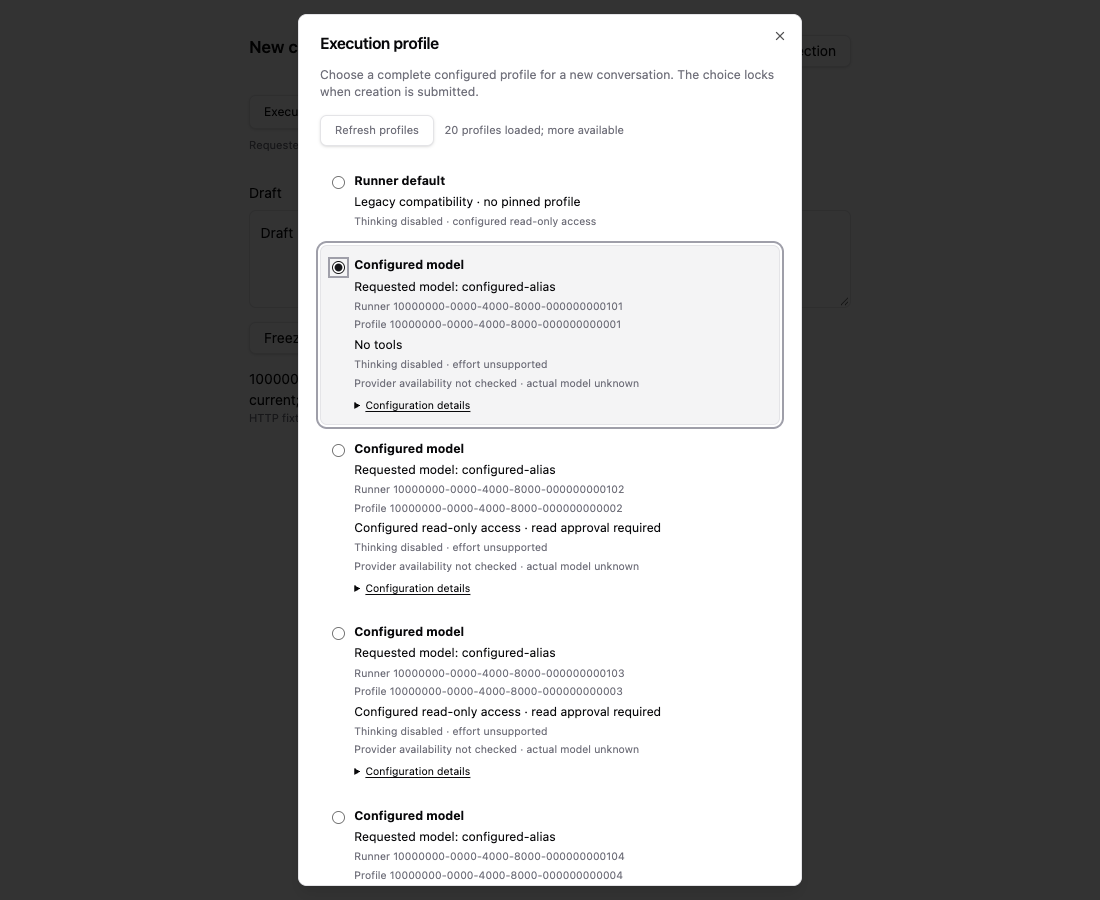
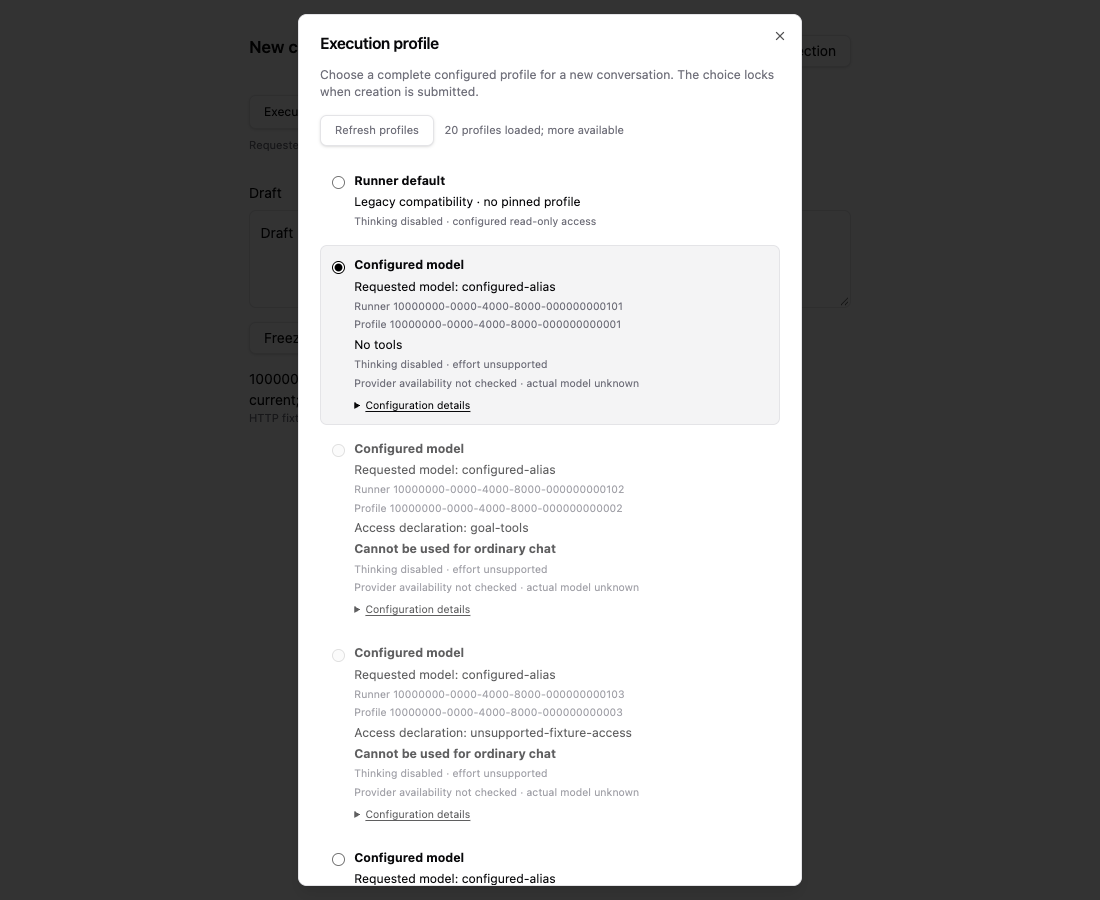
docs(web): record mixed profile directory validation and review target

Changed region(s): [[0.3091, 0.4667, 0.5873, 0.9956], [0.4945, 0.8711, 0.5564, 0.9022], [0.2782, 0.28, 0.3091, 0.3111]]

diff --git a/docs/evidence/wpf-profile01/interface.md b/docs/evidence/wpf-profile01/interface.md
@@ -1,18 +1,36 @@
-# WPF-PROFILE01 模块 Interface（实现前冻结）
+# PROFILE01 Interface — 目录声明与普通聊天选择
 
-输入：固定公共合同 / client 4e0289f29ffa48c6c49003837d4520f57c22b6b0。接入 owner 已确认此拆分；App 接入另行领取。
+固定模块 target `4f1985769564eafad9218570411d5ce1114b4ec0`；源码基线 `4e0289f29ffa48c6c49003837d4520f57c22b6b0`；后继输入只读核 `02683be019ae75591b21c1ada64e01669678f068:packages/contracts/src/execution-profiles.ts`。未修改/合并共享合同。实际 App 接入另行领取。
 
-- `src/execution-profiles/catalog.ts`：`createExecutionProfileCatalog(port: Pick<FlowClient, "executionProfiles">)` 返回 `getSnapshot/subscribe/refresh/loadMore/dispose`。snapshot 为不可变 `profiles/nextCursor/loading/error/loaded/stale/canLoadMore`。每 connection 创建一个实例并在断开/换中心时 dispose。refresh abort 旧请求并原子替换目录；在途/失败保留旧页并标陈旧。loadMore 失败保留旧页/游标可重试。401 同样保留只读旧声明并标陈旧，不能选择新 profile。迟到结果不复活。方法处理错误到 snapshot，不产生 unhandled rejection。
-- `selection.ts`：`ProfileSelection` 为显式 `legacy-default` 或 `configured`（完整 profile）；`configuredSelection`、`legacyDefaultSelection`、`freezeConversationCreation(title, selection)`；后者 schema 校验并深冻完整 `ConversationCreation`，包含 ref 及 requested。无 HTTP/key。`assertCreationReceiptMatches(expectedCreation, receivedSummary)` 核 title/harness/requested 和 pin 有无及所有字段，错误抛 Error。必须用 outbox 已冻结输入核 ACK，不从后来 catalog/selection 重建。
-- `ExecutionProfilePicker.tsx`：受控 `catalog` snapshot、`selection`、`onSelect`、`onRefresh`、`onLoadMore`，可选 `locked={creation:ConversationCreation,reason:'created'|'receipt-pending'}`。locked 优先显示冻结输入；即使未知 ACK 无 summary 也锁定。refresh 不自动改变 selection；不存在/陈旧选择明确提示，不静默替代。UI 不发送/创建/重试命令。
+## selection.ts
 
-控件选整份 runner-configured profile。默认旧兼容项是显式 unpinned runner-default / disabled / configured-readonly。configured requested 精确取 config.model、disabled、config.access。provider availability 始终 not-probed，模型 resolved/effective 未知；不从 runner/profile 声明推在线。配置在 CREATE 时 pin，非首 turn；无 effort/thinking 热切换。需要消除 catalog 陈旧与 create 竞争由中心 admission 再验证完整 ref，UI 不保证准入。
+- `DirectoryProfile`：目录声明，configuration.access为标识字符串；不是可提交Selection。
+- `readDirectoryProfile(input:unknown)`：clone、严格验证公共ref、除access外全部known configuration字段、model/source/availability/controls/limits/时间后深冻。goal-tools额外验证requireReadApproval=false且materialScopeDigest为SHA256空数组。未知access只保留声明、不猜语义。
+- `isChatAccess(access)`：显式仅允许none/configured-readonly。它不依赖公共publication schema未来保持狭窄。
+- `ChatProfile`：上述allowlist的缩窄DTO；`ProfileSelection`为legacy-default或configured+ChatProfile。
+- `configuredSelection(profile:DirectoryProfile)`：重新验证并执行chat allowlist，失败抛Error。消费方不能直接把目录项强转为选择。
+- `legacyDefaultSelection()`：显式旧兼容，无pin，runner-default/disabled/configured-readonly。不是服务在线证明。
+- `freezeConversationCreation(title,selection)`：schema校验且深冻完整ConversationCreation（requested与ref）；configured选择再次执行allowlist，拒绝伪造对象。requested精确取config.model/disabled/config.access。无HTTP、key或发送。
+- `assertCreationReceiptMatches(expectedCreation,receivedSummary)`：核title/harness/requested与pin有无及完整id/runnerId/digest；错误抛Error。必须对照outbox固定payload，不从后来的选择重建。
 
-新模块直接按上述文件导入，不新增 barrel。既有 App/outbox 持有 lifecycle/key/draft；未来接线必须保持新草稿不被旧 ACK 覆盖及 center epoch 隔离。
+## catalog.ts
 
+`createExecutionProfileCatalog(port:Pick<FlowClient,"executionProfiles">)` → getSnapshot/subscribe/refresh/loadMore/dispose。每connection一个实例，切中心/断开dispose。snapshot为不可变 profiles（DirectoryProfile[]）/nextCursor/loading/error/loaded/stale/canLoadMore。
 
-消费接缝确认（2026-10-06 04:41 UTC）：Picker 无 mount 请求，初次 catalog.refresh 由调用者明确执行；locked 无目录依赖。刷新成功只加载第一页，选择项不在 loaded profiles 只表示“尚未在已加载页确认”，不能推全目录删除。消费端新 configured CREATE 应同步核 loaded、非 stale、所选 ref 在当前已读页完整确认；旧 default 不冒充在线。未知 CREATE ACK 的相同 key/body retry 绕开目录门禁；已知 CREATE 成功后即使首 turn 失败仍锁 created。若现 outbox 再次 schema.parse，解析会产生新对象，必须由接入 owner 再深冻 executionProfile/requested；本 helper 不保证跨后续 parse 的对象仍冻结。
+首次请求仅显式refresh触发；Picker无mount请求。refresh取消旧request并generation屏蔽迟到，成功原子替换第一页；在途/失败保留旧页并标陈旧。loadMore失败保留页面/游标可原页重试。401也保留只读旧声明并标陈旧；无新配置选择。refresh失败canLoadMore=false，须先重试refresh；append失败canLoadMore=true可重试；dispose清缓存/订阅且不复活。
 
-`canLoadMore` 表示当前可执行分页请求：refresh在途/失败后为false（需重试refresh），append失败保留cursor且true可原页重试，防止看似可点但无操作的分页按钮。
+混合页保留goal-tools和未知access条目及服务端cursor，不因不可选而筛掉它们；已知goal-tools策略无效或其他DTO/排序/cursor畸形仍原子拒绝整页，保留旧已确认数据（若有）。刷新只加载第一页，所选项不在loaded页只能称“尚未在已加载页确认”，不能推全目录删除。
 
-当前消费者只接受固定4e合同的 `none` / `configured-readonly` access。未知或不支持的 access 由共享schema拒绝，绝不激活；当前catalog按整页原子验证，包含未知access的页会整体错误并保留上一份已确认数据（若有），不会静默过滤出可用部分。后继 goal/tools 类profile的正式区分字段尚未冻结；此模块不预制字段、不将其当普通chat可选项。未来正式合同的过滤/分类消费须另行受控实现。
+## ExecutionProfilePicker.tsx
+
+受控props：catalog snapshot、selection、onSelect、onRefresh、onLoadMore，可选 `locked={creation:ConversationCreation,reason:'created'|'receipt-pending'}`。选择刷新不自动改变；Dialog/Button+原生radio与显式Load more，无全球model搜索假象。goal-tools/未知项显示原access声明及Cannot be used for ordinary chat，radio禁选；合法同页仍可选。配置不是effective或online证明。
+
+locked完全读取冻结creation；未知ACK没有summary也必须锁定，不依赖目录可用。CREATE即pin，而非首turn之后；任何已知CREATE成功后的首turn失败仍锁created。无effort/thinking热切换。
+
+## App消费责任（独立后续claim）
+
+新configured CREATE前同步核loaded&&!stale、完整ref已在当前页确认，然后调用configuredSelection；unknown CREATE ACK的同key/body重试绕过目录门禁，始终原pin/requested。旧无pin会话保持无pin。catalog refresh不会自动改选择。
+
+outbox再schema.parse会clone成新对象，接入owner必须重新深冻ref/requested，不以本helper输出曾冻结推parse后仍冻结。ACK在bind/首turn前核完整pin；不匹配保留unknown。App继续拥有key/retry/draft/connection lifetime，不向模块泄漏token或扩大到模型调用。原有新草稿不得被迟到ACK覆盖。
+
+旧a28/4e批准仅是历史；后继混合目录取代原“未知access整页错误”策略，target4f待新的独审。未知未来profile目的仅能只读，不自动激活。

diff --git a/docs/evidence/wpf-profile01/README.md b/docs/evidence/wpf-profile01/README.md
@@ -1,22 +1,24 @@
 # PROFILE01 模块交付证据
 
-固定target `a28c78cc3a1ac8557f7fd95afa074c4971128246`（生产实现仍为 `b2b2844414172cedf8cdc663e97a0b46c6905202`，a28仅增1消费者测试），base `4e0289f29ffa48c6c49003837d4520f57c22b6b0`。本模块只负责目录、选择和冻结创建配置；现 App 尚未消费。独立review见 [review](../../../plans/wpf-profile01-execution-profiles/review.md)。
+当前固定target `4f1985769564eafad9218570411d5ce1114b4ec0`，源码base `4e0289f29ffa48c6c49003837d4520f57c22b6b0`；只读后继合同 `02683be019ae75591b21c1ada64e01669678f068`。旧a28的限定approval保留历史，新适配独审见[review](../../../plans/wpf-profile01-execution-profiles/review.md)。实际App尚未消费。
 
 | 检查 | 作者实际结果 |
 | --- | --- |
-| `PATH=/opt/homebrew/opt/node@24/bin:$PATH pnpm exec vitest run apps/web/test/execution-profiles.test.ts` | 14/14 PASS；1文件；2026-10-06 04:45 UTC；target a28 |
-| `pnpm --filter @flow/web typecheck`（同Node24 PATH） | b2 exit0；a28生产diff0，未为新增纯测试重复 |
-| `pnpm exec tsx apps/web/test/execution-profiles.browser.ts`（同PATH） | b2：5行为组 PASS / pageErrors=[]；Chrome154；[原始JSON](browser-results.json) |
-| 隔离fixture production bundle | Vite8 build lib entry=`apps/web/test/execution-profiles.fixture.tsx`，React/Tailwind现有插件，输出 `/tmp/flow-profile01-isolated-build`；PASS。仅证明模块生产编译，不声称生产App接入或完整prod browser |
-| 范围与锁 | `git diff --check` PASS；根package.json/pnpm-lock.yaml diff0；仅7新实现文件 |
+| `PATH=/opt/homebrew/opt/node@24/bin:$PATH pnpm exec vitest run apps/web/test/execution-profiles.test.ts` | target4f，16/16 PASS；1文件；2026-10-06 04:50 UTC |
+| `pnpm --filter @flow/web typecheck`（同PATH） | target4f exit0 |
+| `pnpm exec tsx apps/web/test/execution-profiles.browser.ts`（同PATH） | target4f，5行为组 PASS/pageErrors=[]；Chrome154；[原始JSON](browser-results.json) |
+| 范围/锁 | diffcheck0；根manifest/lock与共享文件无变；五文件后继差异均已领取 |
+| 历史隔离fixture production bundle | b2时Vite8 lib entry=test/execution-profiles.fixture.tsx输出/tmp/flow-profile01-isolated-build通过；不是4f重跑/不是App集成；后继按影响执行type/unit/browser未重跑无关build |
 
-14项包括实际 FlowClient HTTP分页、同模型不同runner、保留旧页错误/401恢复、append失败重试、refresh竞争/中止、dispose迟到隔离、畸形页原子拒绝（3case）、完整冻结、legacy兼容、ACK pin有无/完整字段、首次显式请求与取消订阅、未知access整页拒绝及合法access不变。UI验证20+1真实分页/503原页重试、native键盘选择、Escape焦点返回、未发送草稿保留、401陈旧门禁、dark390/reduced-motion、未知ACK无summary锁、换中心新目录和created锁。
+16项覆盖真实FlowClient HTTP分页/同model不同runner、保留页错误/401恢复、append失败重试、refresh中止竞争、dispose迟到隔离、畸形页原子拒绝（3case）、完整冻结、legacy兼容、ACK完整pin、显式首次请求和取消订阅、混合合法+goal-tools+unknown页仍可分页/合法选择、直接configured及freeze入口拒绝非chat、已知goal-tools两种策略无效整页失败。
 
-- [浅色选择器](profiles-light.png)
-- [深色390选择器](profiles-dark-390.png)
+5个HTTP浏览器组验证20+1混合目录、goal-tools/unknown显示原因并禁选、键盘跳过禁选、503原页重试、401旧页与选择保留/恢复、Escape焦点返回/未发送草稿保留、深色390/reduced-motion、未知ACK无summary锁、换中心/created锁。0模型/0数据库。
+
+- [浅色混合目录](profiles-light.png)
+- [深色390混合目录](profiles-dark-390.png)
 - [深色390未知回执锁](profiles-pending-dark-390.png)
 
-截图均人工目视。首次fixture失败因自定义HTML没经 `transformIndexHtml` 导致React preamble缺失；随后textarea嵌套label定位不稳定，补明确aria-label。两项已修，最终完整5组重跑，不计早期失败为产品已通过。
+截图已人工目视。早期b2 fixture漏Vite HTML变换及textarea accessible name问题已修且后续完整重跑，未隐瞒初次失败。当前4f未遇新增检查失败。
 
 ## 本地查看
 
@@ -25,16 +27,10 @@ cd /Users/citrine/Projects/AgentHarness/Flow-worktrees/web-execution-profiles
 PATH=/opt/homebrew/opt/node@24/bin:$PATH pnpm exec tsx apps/web/test/execution-profiles.browser.ts --serve
 ```
 
-命令输出 `PROFILE01_HTTP_FIXTURE=http://127.0.0.1:<dynamic-port>`；交付时保留预览 `http://127.0.0.1:62662`。只提供合成 HTTP profile声明、0模型；所有冻结按钮均本地fixture控件，无POST会话。独立自动检查另用动态端口且finally关闭浏览器/服务，不占4320/49922或其他owner端口。
+输出 `PROFILE01_HTTP_FIXTURE=http://127.0.0.1:<dynamic-port>`；当前保留 `http://127.0.0.1:64954`（混合目录fixture）。旧62662已核自己PID/cwd后清理，不碰别的服务。自动检查另开动态端口并finally清理。冻结按钮仅本地fixture，无会话POST或模型；未改4320/49922。
 
-## 接入与限制
+## 接入与未验证
 
-[完整Interface](interface.md)。调用者负责首次refresh、connection lifetime/dispose、创建时采用当前已确认的profile，以及outbox key、unknown重试原输入、ACK核对后绑定、草稿安全。当前unpicked/legacy显式兼容不表示服务在线。目录仅按页读取，缺失于loaded页不是全目录删除；旧选项绝不自动替代。中心准入再次检查ref是否可用。
+[Interface](interface.md)。DirectoryProfile只是声明，只有allowlist产生ChatProfile；未知access不推目的或可用。已知goal-tools无审批/空材料策略继续严格。中心准入再核ref，UI不保证在线。
 
-未知项：真实中心/provider/runner可达、实际模型名与工具、App组合、Safari/Firefox/屏读；queue/steer/effort切换不在此合同。被冻结输入经过其他模块schema.parse可能重新变可变，消费端必须重新冻结ref/requested；这属于接入检查，不以本模块的冻对象推整个App已安全。
-
-后继a28仅增加未知access消费者测试；浏览器/生产bundle为b2生产实现检查，未冒充新目标再次重跑。生产文件四项零diff，隔离fixture/browser脚本也未改变。
-
-## 独立结论
-
-root于2026-10-06 04:48:10 UTC正式APPROVED模块target a28，独立14tests/source/CUA通过。作者与审查者实际检查、未验证项分别见[review](../../../plans/wpf-profile01-execution-profiles/review.md)。不把此批准写成App已经接通或main已集成。
+未验证实际App组合、真实center/runner/provider/模型、Safari/Firefox/屏读。queue/steer/effort切换不在此合同。App outbox再次parse后ref需重新冻结；unknown原key/body重试与草稿安全由接入owner在独立claim验证。旧a28批准不能自动覆盖新合同或后续App。

diff --git a/plans/wpf-profile01-execution-profiles/status.md b/plans/wpf-profile01-execution-profiles/status.md
@@ -2,32 +2,32 @@
 
 | 字段 | 记录 |
 | --- | --- |
-| 最近更新 / 最近main同步核验 | 2026-10-06 04:49 UTC；固定输入，不追 moving main |
+| 最近更新 / 最近main同步核验 | 2026-10-06 04:52 UTC；固定输入，不追 moving main |
 | Plan | [plan.md](plan.md) |
 | 单一status owner / model | w01_owner / gpt-6-astra ultra（派发指定） |
 | Worktree | /Users/citrine/Projects/AgentHarness/Flow-worktrees/web-execution-profiles |
 | Branch | codex/web-execution-profiles |
-| 工作基线 / HEAD | 基线 4e0289f29ffa48c6c49003837d4520f57c22b6b0；实现 a28c78cc3a1ac8557f7fd95afa074c4971128246，随后仅metadata |
+| 工作基线 / HEAD | 基线 4e0289f29ffa48c6c49003837d4520f57c22b6b0；实现 4f1985769564eafad9218570411d5ce1114b4ec0，随后仅metadata |
 | 工作树dirty状态 | 实现已提交；本次仅计划/证据收尾，提交后核clean |
 | 工作分支状态 | implemented |
-| 检查状态 | PASSED：a28c78cc3a1ac8557f7fd95afa074c4971128246；14局部 tests；b2生产不变，复用其Web typecheck、5组HTTP browser、隔离fixture production bundle；见证据 |
+| 检查状态 | PASSED：4f1985769564eafad9218570411d5ce1114b4ec0；16局部tests、Web typecheck、5组混合目录HTTP browser；隔离production bundle仅历史b2 |
 | 已集成main状态 / HEAD | 未集成新模块；4e 仅为公共接口输入 |
-| 实现目标 | a28c78cc3a1ac8557f7fd95afa074c4971128246 |
+| 实现目标 | 4f1985769564eafad9218570411d5ce1114b4ec0 |
 | 实现范围 | apps/web/src/execution-profiles/ExecutionProfilePicker.tsx, apps/web/src/execution-profiles/catalog.ts, apps/web/src/execution-profiles/execution-profiles.css, apps/web/src/execution-profiles/selection.ts, apps/web/test/execution-profiles.browser.ts, apps/web/test/execution-profiles.fixture.tsx, apps/web/test/execution-profiles.test.ts |
 | 阶段 | M2 |
 | 优先级 | 1 |
-| 当前产出 | 独立配置选择模块已获固定目标审查通过；可交下一App接入片消费 |
-| 下一可用交付 | 交App owner另领配置接线；模块当前停止实现写入并保留review修复claim |
+| 当前产出 | 固定02683混合目录适配已验证；禁选goal-tools/未知配置，合法项保留 |
+| 下一可用交付 | 新target4f独立复审；App消费另领 |
 | 当前阻塞 | NONE |
 | 需用户决定 | NONE |
-| Review | [review.md](review.md)，APPROVED a28c78cc3a1ac8557f7fd95afa074c4971128246；仅独立模块 |
+| Review | [review.md](review.md)，NOT_STARTED 4f1985769564eafad9218570411d5ce1114b4ec0；历史a28/4e APPROVED保留 |
 
 | TODO ID | 状态 | Owner | 完成证据/检查 |
 | --- | --- | --- | --- |
-| WPF-PROFILE01-01 | completed | w01_owner | 14局部tests中真实HTTP分页/错误/连接隔离；固定a28 |
-| WPF-PROFILE01-02 | completed | w01_owner | 完整pin/深冻/旧default局部检查；固定a28 |
-| WPF-PROFILE01-03 | completed | w01_owner | 5组HTTP浏览器，双主题390/键盘/锁；截图已目视 |
-| WPF-PROFILE01-04 | completed | w01_owner | root独立APPROVED a28；14tests+CUA/源码；App另片 |
+| WPF-PROFILE01-01 | completed | w01_owner | 16局部tests：混合目录/分页/错误/连接隔离；固定4f |
+| WPF-PROFILE01-02 | completed | w01_owner | 完整pin/深冻/显式chat allowlist/旧default；固定4f |
+| WPF-PROFILE01-03 | completed | w01_owner | 5组混合目录HTTP浏览器，禁选/双主题390/键盘/锁；截图已目视 |
+| WPF-PROFILE01-04 | in-progress | w01_owner | 4f待复审；历史a28 approval不覆盖后继 |
 
 ## 领取与架构影响
 
@@ -40,7 +40,7 @@
 
 ## 本段检查与交付
 
-[验证报告](../../docs/evidence/wpf-profile01/README.md)；[浏览器原始结果](../../docs/evidence/wpf-profile01/browser-results.json)；[接口](../../docs/evidence/wpf-profile01/interface.md)；[技能与清码](../../docs/evidence/wpf-profile01/quality.md)。Node24 / pnpm9.15.4 / Chrome154。已启动独立HTTP fixture http://127.0.0.1:62662（开发预览，启动脚本每次动态端口）。测试自动端口已清理。0真实模型，未运行真实中心/runner、App组合、Safari/Firefox/屏读。
+[验证报告](../../docs/evidence/wpf-profile01/README.md)；[浏览器原始结果](../../docs/evidence/wpf-profile01/browser-results.json)；[接口](../../docs/evidence/wpf-profile01/interface.md)；[技能与清码](../../docs/evidence/wpf-profile01/quality.md)。Node24 / pnpm9.15.4 / Chrome154。已启动独立HTTP fixture http://127.0.0.1:64954（开发预览，启动脚本每次动态端口）。测试自动端口已清理。0真实模型，未运行真实中心/runner、App组合、Safari/Firefox/屏读。
 
 frozen-lockfile安装复用既有449依赖，不新增manifest条目；根manifest/lock diff0。client/contracts均链接本工作树packages。最初fixture漏Vite HTML变换及textarea可访问名称问题已修，最终5组全部通过；不是忽略失败。Review已独立绑定a28通过，不继承任何W01/P01历史approval。
 
@@ -48,3 +48,9 @@ frozen-lockfile安装复用既有449依赖，不新增manifest条目；根manife
 ## 独立审查交付
 
 root / GPT-6 只读审查，2026-10-06 04:48:10 UTC 正式 APPROVED，target a28c78cc3a1ac8557f7fd95afa074c4971128246 / base 4e0289f29ffa48c6c49003837d4520f57c22b6b0。独立14tests PASS（226ms）、7文件源码审读、固定diffcheck0、4生产文件b2→HEAD零差异、CUA展开/选择/焦点/草稿/未知ACK冻结通过。作者5browser/隔离编译由证据复核，root没有声称再次独立全跑。无未关闭blocking；未来goal-tools分类/实际App/真实中心与模型不在批准范围。当前未知access整页拒绝，不声称逐项降级。
+
+## 后继公共合同适配（2026-10-06 04:50 UTC）
+
+Lead固定02683be019ae75591b21c1ada64e01669678f068新增goal-tools access，管理/root授权在现9scope适配。旧target的整页拒绝策略被新产品要求替代：目录阅读与可提交选择分离，goal-tools/未知access只读禁选、合法项保留、其他畸形仍整页拒绝。源码基线4e不变，026只读作为已固定形状输入；共享文件不修改。新target4f已提交并作者16tests/typecheck/5browser通过，旧approval不覆盖当前实现。
+
+后继固定target4f的新增源与验证见报告；既有dashboard-snapshot是04:44旧b2采样，不能据此把新review解析当已正确。最终新review元数据后将单次核review.state/target/proof。

diff --git a/plans/wpf-profile01-execution-profiles/plan.md b/plans/wpf-profile01-execution-profiles/plan.md
@@ -3,7 +3,7 @@
 | 字段 | 内容 |
 | --- | --- |
 | 计划编号 | WPF-PROFILE01 |
-| 状态 | completed |
+| 状态 | in-progress |
 | 创建 / 更新 | 2026-10-06 04:49 UTC |
 | Owner / model | w01_owner / gpt-6-astra ultra（派发指定；运行上下文为 GPT-6） |
 | Worktree / branch | /Users/citrine/Projects/AgentHarness/Flow-worktrees/web-execution-profiles / codex/web-execution-profiles |
@@ -18,7 +18,7 @@
 - [x] **WPF-PROFILE01-01** 目录分页、刷新/错误/中止与连接隔离的不可变投影。
 - [x] **WPF-PROFILE01-02** 整份配置选择、深冻结 creation、完整 pin 回执核对、旧无 pin 兼容。
 - [x] **WPF-PROFILE01-03** 受控选择器与 HTTP fixture；浅深主题、390px、键盘、错误恢复和未知回执锁定。
-- [x] **WPF-PROFILE01-04** 独立审查、修复、固定模块交接；主 App 集成另领。
+- [ ] **WPF-PROFILE01-04** 独立审查、修复、固定模块交接；主 App 集成另领。
 
 ## 设计与验证
 
@@ -29,3 +29,7 @@
 测试通过公开模块接口与真实 FlowClient HTTP fixture；不调用模型/数据库。只运行本模块与类型检查、隔离浏览器。未验证真实中心/runner/provider、App 接线、Safari/Firefox/屏读。方法及实际发现见 [quality](../../docs/evidence/wpf-profile01/quality.md)，接口见 [interface](../../docs/evidence/wpf-profile01/interface.md)。
 
 本模块交付已获独立APPROVED target a28c78cc3a1ac8557f7fd95afa074c4971128246；completed仅指本计划模块范围，App接入与真实中心另片，见review边界。
+
+## 02683后继差异
+
+2026-10-06 04:50 UTC Lead固定02683be019ae75591b21c1ada64e01669678f068扩展goal-tools。恢复01/02/03/04已有稳定TODO的后继适配，保留历史a28完成证据：DirectoryProfile仅目录声明；Selection必须显式none/configured-readonly allowlist。混合页保留goal-tools/unknown禁选项和cursor，已知goal-tools无read approval/空material约束继续验证。新target独立复审后才称后继完成。

diff --git a/docs/evidence/wpf-profile01/quality.md b/docs/evidence/wpf-profile01/quality.md
@@ -26,3 +26,6 @@
 04:46 UTC review补充停点：GoalOwner明确未来goal/tools类profile不能当普通chat选项，正式合同尚未冻结。未猜测新字段，只给未知占位access做消费者测试：合法none/configured-readonly精确保持，未知由共享schema拒绝、整页原子失败。a28仅增1测试，14/14通过；production与b2零diff。界面与bundle沿用b2证据，不无关重测。缺点保留：未知access导致整页错误而非逐项分类；未来受控合同另片。
 
 04:49 UTC交付clean-code：固定a28生产与b2零diff；核目录缓存/选择快照/创建payload/回执对照四个状态所有者明确，未知access整页失败写入Interface而不隐瞒。独立root14tests+源码/CUA限定批准已转录；未新增泛化profile组合/新状态库/模型探测。剩余工作为实际App消费，交原owner另领；本scope停止实现，保留review修复权。
+
+
+04:52 UTC 后继02683段末clean-code：合同已新增goal-tools，旧schema拒绝并非长期chat权限门禁。将目录读取与可提交选择拆开，DirectoryProfile明确不是Selection；唯一isChatAccess allowlist被configuredSelection/freeze入口复用。known goal-tools跨字段约束完整保留，未知access只读禁选，其他错误仍原子失败，不用过滤条目破坏cursor。16tests/typecheck/5HTTP browser通过，新截图已目视。无共享/根锁/旧App改动；未加新依赖。仅后继影响范围验证，历史生产bundle不冒充重跑。新target4f独审待回。

diff --git a/plans/wpf-profile01-execution-profiles/review.md b/plans/wpf-profile01-execution-profiles/review.md
@@ -1,6 +1,13 @@
 # WPF-PROFILE01 独立审查
 
-**APPROVED — 仅独立模块片。** 无未关闭 blocking finding。
+**状态：NOT_STARTED**
+
+Review target commit：4f1985769564eafad9218570411d5ce1114b4ec0
+Base：4e0289f29ffa48c6c49003837d4520f57c22b6b0。
+
+后继作者：16局部tests、Web typecheck、5组混合目录HTTP浏览器已过；root新target审查待回。
+
+以下为历史a28/4e APPROVED记录，仅旧合同独立模块片；新target不继承。
 
 ## 固定目标
 
